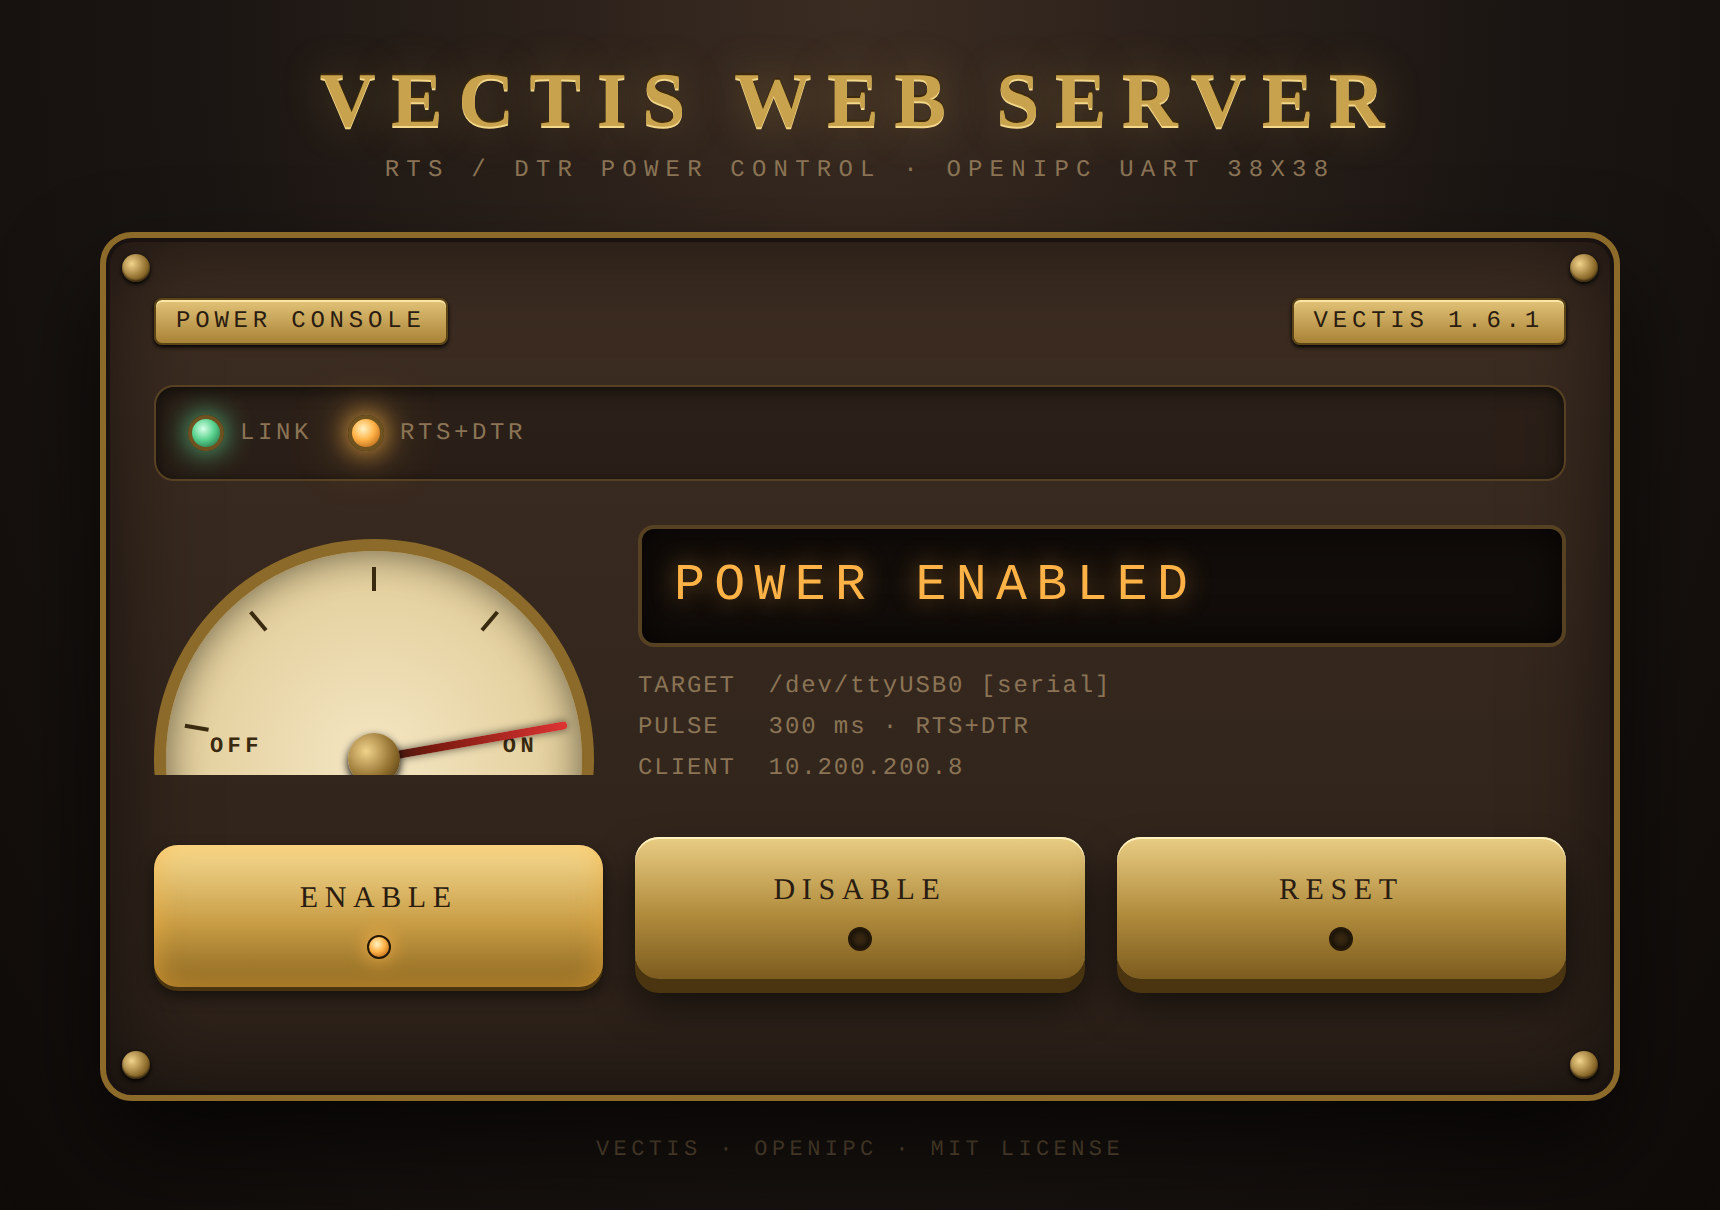
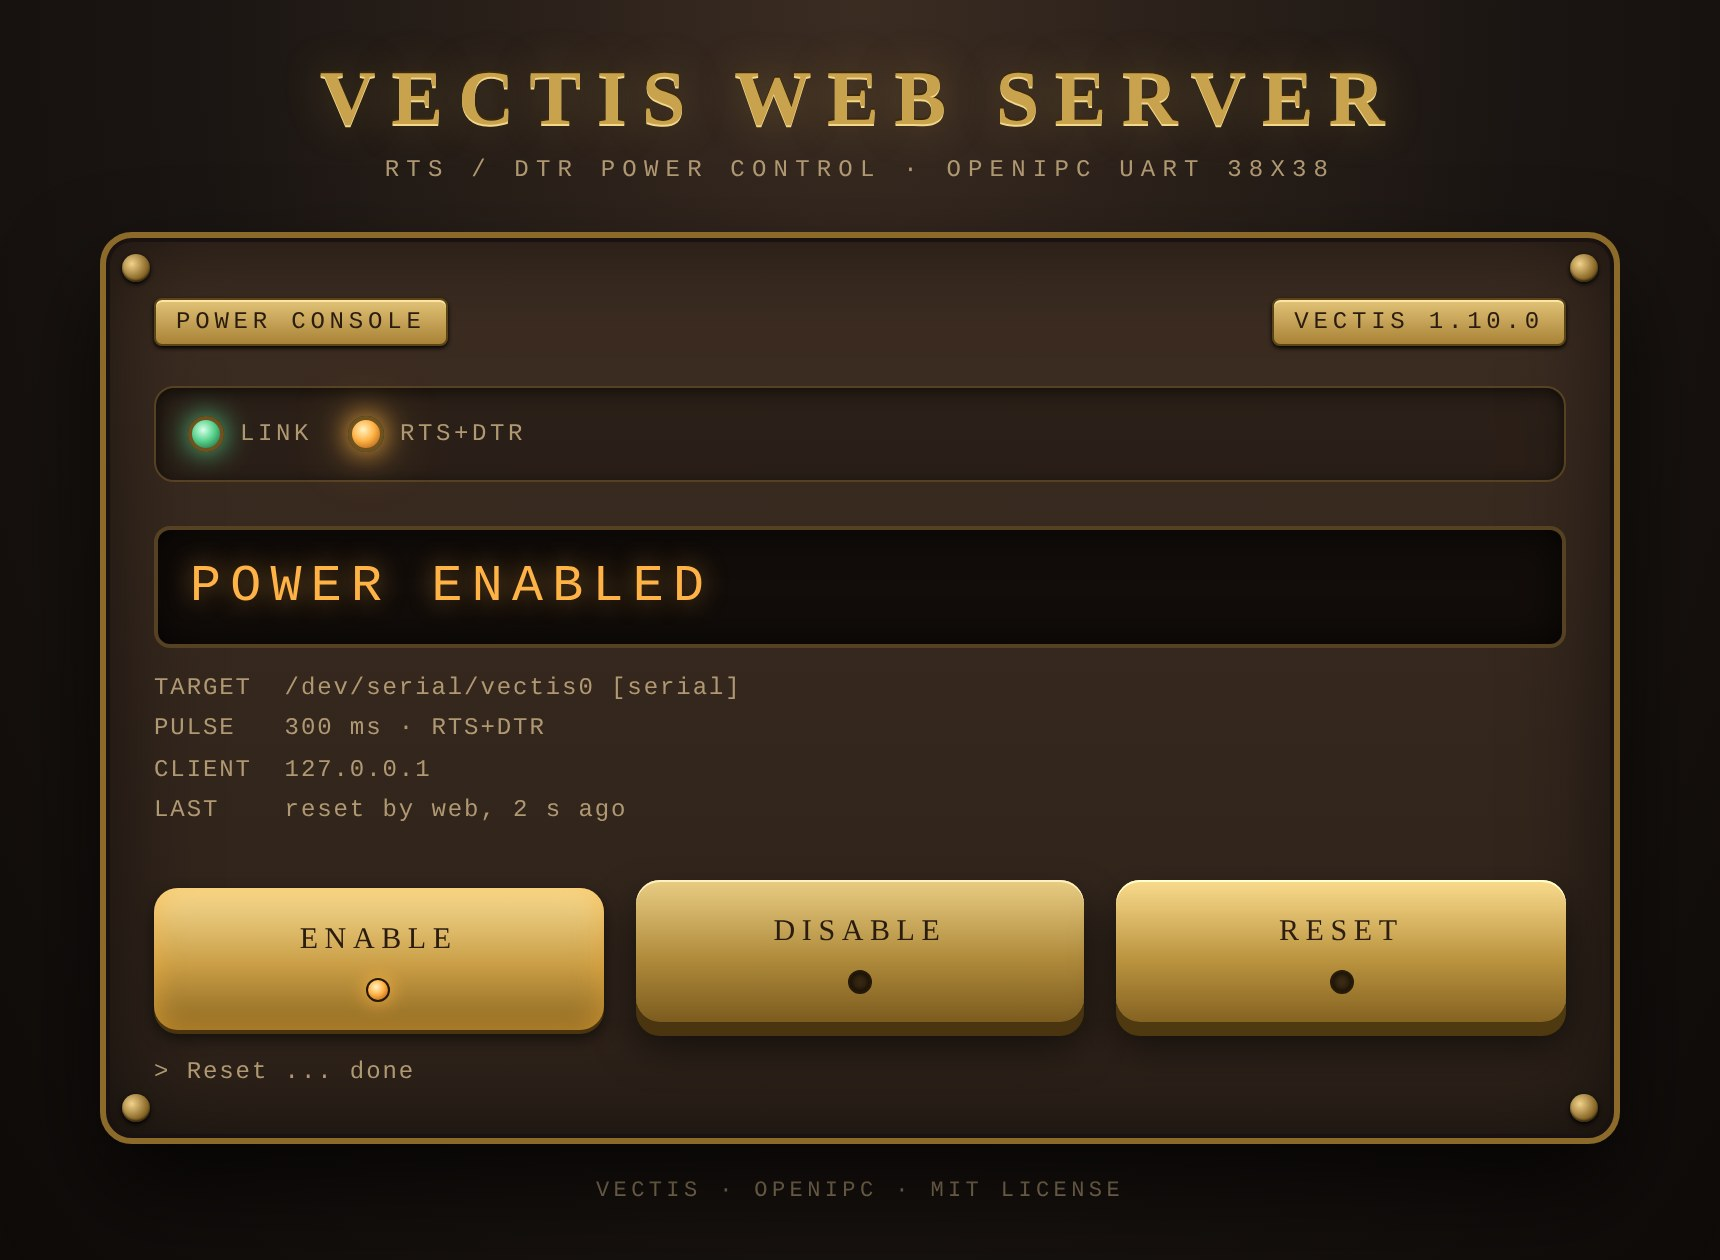
Web console: remove the gauge, state in the tab title, last-event line (#78)
Closes #76
Closes #77

Web console (`-w`) only; the JSON API does not change. Version 1.10.0.

## Before and after

Both builds were driven in headless Chrome against a pty in place of the
UART.

| State | 1.9.1 tab title | 1.10.0 tab title | 1.10.0 `LAST` line |
|---|---|---|---|
| Power on | `Vectis Web Server` | `Power enabled · Vectis` | `power on
by link, 2 s ago` |
| Power off | `Vectis Web Server` | `Power disabled · Vectis` | `power
off by web, 0 s ago` |
| Reset running | `Vectis Web Server` | `Resetting · Vectis` | `reset by
web, 0 s ago` |
| Reset by another browser | `Vectis Web Server` | `Power enabled ·
Vectis` | `reset by web, 1 s ago` |
| `Ctrl+P` from a raw `-l` client | `Vectis Web Server` | `Power enabled
· Vectis` | `reset by tcp, 1 s ago` |
| Link offline | `Vectis Web Server` | `Link offline · Vectis` | hidden
|

| Check | 1.9.1 | 1.10.0 |
|---|---|---|
| Gauge elements in the page | present | none |
| State display width in the 706 px row | 464 px | 706 px |
| Reset button filter while the pulse runs | `grayscale(0.7)
brightness(0.6)` | `none` |
| JS errors, all states | none | none |
| Horizontal overflow at 390 px | none | none |

The 15-second log line still names the source of a remote event
(`another browser`, `tcp`).

Colours: `--dim` `#8a7455` → `#b09873`, footer `#5e4d36` → `#958061`,
the values and ratios from #77.

## Notes

- The new `screenshots/web-power-console.jpg` was taken with a pty in
[…]

diff --git a/vectis.c b/vectis.c
@@ -105,8 +105,8 @@
 #define CPC_STOP_1   1
 #define CPC_STOP_2   2
 
-#define PROGRAM_VERSION      "1.9.1"
-#define PROGRAM_RELEASE_DATE "2026-11-04"
+#define PROGRAM_VERSION      "1.10.0"
+#define PROGRAM_RELEASE_DATE "2026-11-08"
 
 #define RECONNECT_DELAY_S 5
 
@@ -1087,7 +1087,7 @@ static const char web_page[] =
     "<meta name='viewport' content='width=device-width,initial-scale=1'>\n"
     "<title>Vectis Web Server</title>\n"
     "<style>\n"
-    ":root{--panel:#2c2119;--panel2:#3d2d22;--brass:#c9a24d;--brass2:#8c6a2a;--amber:#ffb347;--ember:#ff6a1a;--ink:#e8d9b8;--dim:#8a7455;--red:#c8452c;--green:#5ad38f}\n"
+    ":root{--panel:#2c2119;--panel2:#3d2d22;--brass:#c9a24d;--brass2:#8c6a2a;--amber:#ffb347;--ember:#ff6a1a;--ink:#e8d9b8;--dim:#b09873;--red:#c8452c;--green:#5ad38f}\n"
     "*{box-sizing:border-box}\n"
     "body{margin:0;min-height:100vh;background:radial-gradient(ellipse at 50% 0,#3b2c22 0,#1a1512 55%,#0f0b09 100%);color:var(--ink);font-family:Georgia,'Times New Roman',serif;display:flex;flex-direction:column;align-items:center;padding:28px 12px}\n"
     "h1{font-size:clamp(22px,4.5vw,40px);letter-spacing:.2em;text-transform:uppercase;margin:0 0 6px;text-align:center;color:var(--brass);text-shadow:0 1px 0 #f3d78a,0 -1px 0 #3d2a0c,0 0 22px rgba(201,162,77,.35)}\n"
@@ -1104,16 +1104,8 @@ static const char web_page[] =
     ".bulb.ok{background:radial-gradient(circle at 40% 35%,#d8ffe8,var(--green) 45%,#155b34);box-shadow:0 0 14px var(--green)}\n"
     ".bulb.bad{background:radial-gradient(circle at 40% 35%,#ffd0c4,var(--red) 45%,#5a1a0e);box-shadow:0 0 14px var(--red);animation:blink 1.2s infinite}\n"
     "@keyframes blink{50%{box-shadow:0 0 2px var(--red)}}\n"
-    ".mid{display:flex;gap:22px;align-items:center;justify-content:space-between;flex-wrap:wrap;margin-top:22px}\n"
-    ".gauge{position:relative;width:220px;height:118px;overflow:hidden;flex:none;margin:0 auto}\n"
-    ".dial{position:absolute;left:0;top:0;width:220px;height:220px;border-radius:50%;border:6px solid var(--brass2);background:radial-gradient(circle at 50% 50%,#f4e6c3 0,#e6d3a3 55%,#c9b27a 100%);box-shadow:inset 0 0 18px rgba(0,0,0,.5)}\n"
-    ".tick{position:absolute;left:50%;top:110px;width:2px;height:104px;margin-left:-1px;margin-top:-104px;transform-origin:50% 100%}\n"
-    ".tick:after{content:'';position:absolute;top:8px;left:0;width:2px;height:12px;background:#3a2a10}\n"
-    ".needle{position:absolute;left:50%;top:110px;width:4px;height:98px;margin-left:-2px;margin-top:-98px;background:linear-gradient(180deg,#d33 0,#7a1a10 70%,#2a1c10);transform-origin:50% 100%;transform:rotate(-88deg);transition:transform 1.1s cubic-bezier(.3,1.6,.4,1);border-radius:2px;box-shadow:0 0 4px rgba(0,0,0,.6)}\n"
-    ".hub{position:absolute;left:50%;top:110px;width:26px;height:26px;margin:-13px 0 0 -13px;border-radius:50%;background:radial-gradient(circle at 35% 35%,#f1d38b,#8c6a2a 60%,#3a2a10);box-shadow:0 2px 4px #000}\n"
-    ".lbl{position:absolute;bottom:8px;font-family:'Courier New',monospace;font-size:11px;letter-spacing:.2em;color:#3a2a10;font-weight:bold}\n"
-    ".lbl.l{left:28px}.lbl.r{right:28px}\n"
-    ".readout{flex:1;min-width:230px;font-family:'Courier New',monospace}\n"
+    ".mid{margin-top:22px}\n"
+    ".readout{font-family:'Courier New',monospace}\n"
     ".state{font-size:clamp(18px,3vw,26px);letter-spacing:.18em;text-transform:uppercase;color:var(--amber);text-shadow:0 0 12px rgba(255,179,71,.5);padding:14px 16px;border:2px solid #574123;border-radius:8px;background:#120d0a;box-shadow:inset 0 0 20px rgba(0,0,0,.8);transition:color .3s}\n"
     ".state.off{color:var(--dim);text-shadow:none}\n"
     ".state.bad{color:var(--red);text-shadow:0 0 12px rgba(200,69,44,.5)}\n"
@@ -1128,11 +1120,12 @@ static const char web_page[] =
     ".btn.reset.engaged .ind{background:radial-gradient(circle at 40% 35%,#ffe1d0,var(--ember) 45%,#7a2a05);box-shadow:0 0 10px var(--ember);animation:flick .35s infinite}\n"
     "@keyframes flick{50%{opacity:.25}}\n"
     ".btn:disabled{cursor:not-allowed;filter:grayscale(.7) brightness(.6)}\n"
+    ".btn:disabled.engaged{filter:none}\n"
     ".btn .gear{position:absolute;right:10px;top:8px;font-size:16px;line-height:1;opacity:0;transition:opacity .2s}\n"
     ".btn.reset.engaged .gear{opacity:1;animation:spin 1s linear infinite}\n"
     "@keyframes spin{to{transform:rotate(360deg)}}\n"
     ".log{font-family:'Courier New',monospace;font-size:12px;color:var(--dim);margin-top:18px;min-height:16px;letter-spacing:.08em}\n"
-    ".foot{margin-top:18px;font-family:'Courier New',monospace;font-size:11px;color:#5e4d36;letter-spacing:.2em;text-transform:uppercase;text-align:center}\n"
+    ".foot{margin-top:18px;font-family:'Courier New',monospace;font-size:11px;color:#958061;letter-spacing:.2em;text-transform:uppercase;text-align:center}\n"
     "</style>\n"
     "</head>\n"
     "<body>\n"
@@ -1146,10 +1139,6 @@ static const char web_page[] =
     "<div class='lamp'><span class='bulb' id='l-lines'></span>RTS+DTR</div>\n"
     "</div>\n"
     "<div class='mid'>\n"
-    "<div class='gauge'><div class='dial'></div>\n"
-    "<div class='tick' style='transform:rotate(-80deg)'></div><div class='tick' style='transform:rotate(-40deg)'></div><div class='tick'></div><div class='tick' style='transform:rotate(40deg)'></div><div class='tick' style='transform:rotate(80deg)'></div>\n"
-    "<span class='lbl l'>OFF</span><span class='lbl r'>ON</span>\n"
-    "<div class='needle' id='needle'></div><div class='hub'></div></div>\n"
     "<div class='readout'><div class='state off' id='state'>Stand by</div><div class='meta' id='meta'>Reading the console&hellip;</div></div>\n"
     "</div>\n"
     "<div class='btns'>\n"
@@ -1164,15 +1153,17 @@ static const char web_page[] =
     "var busy=false,lastSeq=-1;\n"
     "function $(i){return document.getElementById(i)}\n"
     "function bulb(id,c){$(id).className='bulb'+(c?' '+c:'')}\n"
+    "function setState(t,c){var st=$('state');st.textContent=t;st.className='state'+(c?' '+c:'');document.title=t+' \\u00b7 Vectis'}\n"
     "function esc(t){return String(t).replace(/[&<>]/g,function(c){return {'&':'&amp;','<':'&lt;','>':'&gt;'}[c]})}\n"
+    "function ago(ms){var s=Math.floor(ms/1000);return s<60?s+' s':s<3600?Math.floor(s/60)+' min':Math.floor(s/3600)+' h'}\n"
+    "function last(e){return esc((e.kind==='reset'?'reset':'power '+e.kind)+' by '+e.source+', '+ago(e.ago_ms)+' ago')}\n"
     "function render(s){\n"
     " var online=s.link==='online',on=s.power==='on';\n"
     " bulb('l-link',online?'ok':'bad');$('t-link').textContent=online?'Link':'No link';\n"
     " bulb('l-lines',online&&(s.rts<0||s.dtr<0?on:s.rts===1&&s.dtr===1)?'on':'');\n"
-    " var st=$('state');st.textContent=online?(on?'Power enabled':'Power disabled'):'Link offline';st.className='state'+(online?(on?'':' off'):' bad');\n"
-    " $('meta').innerHTML='TARGET&nbsp; '+esc(s.target)+' ['+esc(s.mode)+']<br>PULSE&nbsp;&nbsp; '+esc(s.reset_ms)+' ms &middot; RTS+DTR'+(s.tcp_client?'<br>CLIENT&nbsp; '+esc(s.tcp_client):'');\n"
+    " setState(online?(on?'Power enabled':'Power disabled'):'Link offline',online?(on?'':'off'):'bad');\n"
+    " $('meta').innerHTML='TARGET&nbsp; '+esc(s.target)+' ['+esc(s.mode)+']<br>PULSE&nbsp;&nbsp; '+esc(s.reset_ms)+' ms &middot; RTS+DTR'+(s.tcp_client?'<br>CLIENT&nbsp; '+esc(s.tcp_client):'')+(online&&s.event?'<br>LAST&nbsp;&nbsp;&nbsp; '+last(s.event):'');\n"
     " $('ver').textContent='vectis '+s.version;\n"
-    " $('needle').style.transform='rotate('+(online?(on?80:-80):-88)+'deg)';\n"
     " $('b-on').classList.toggle('engaged',online&&on);$('b-off').classList.toggle('engaged',online&&!on);\n"
     " var d=!online||busy;$('b-on').disabled=d;$('b-off').disabled=d;$('b-reset').disabled=d;\n"
     " remote(s.event);\n"
@@ -1188,8 +1179,7 @@ static const char web_page[] =
     " if(e.kind==='reset'){flashReset()}\n"
     "}\n"
     "function flashReset(){\n"
-    " var b=$('b-reset');b.classList.add('engaged');$('needle').style.transform='rotate(-80deg)';\n"
-    " $('state').textContent='Resetting';$('state').className='state';\n"
+    " var b=$('b-reset');b.classList.add('engaged');setState('Resetting');\n"
     " setTimeout(function(){b.classList.remove('engaged');if(!busy)poll()},900);\n"
     "}\n"
     "function offline(){render({link:'offline',power:'off',rts:-1,dtr:-1,target:'?',mode:'?',reset_ms:'?',version:'?'})}\n"
@@ -1201,7 +1191,7 @@ static const char web_page[] =
     " var label=id==='b-on'?'Enable':id==='b-off'?'Disable':'Reset';\n"
     " btn.classList.add('pressed');\n"
     " ['b-on','b-off','b-reset'].forEach(function(i){$(i).disabled=true});\n"
-    " if(id==='b-reset'){btn.classList.add('engaged');$('needle').style.transform='rotate(-80deg)';$('state').textContent='Resetting';$('state').className='state'}\n"
+    " if(id==='b-reset'){btn.classList.add('engaged');setState('Resetting')}\n"
     " $('log').textContent='> '+label+' ... engaging';\n"
     " var t0=Date.now(),hold=function(f){setTimeout(f,id==='b-reset'?Math.max(0,900-(Date.now()-t0)):0)};\n"
     " fetch(path,{method:'POST'}).then(function(r){return r.json().then(function(j){return {ok:r.ok,j:j}})}).then(function(x){hold(function(){\n"

diff --git a/tests/test_vectis.py b/tests/test_vectis.py
@@ -19,6 +19,7 @@
 
 import json
 import os
+import re
 import pty
 import select
 import signal
@@ -199,6 +200,18 @@ def test_server(tmp):
         check(wait_listen(lport) and wait_listen(wport), "listeners come up")
         st = wait_status(wport, "link", "online")
         check(st.get("link") == "online" and st.get("mode") == "serial", "/status: online, serial")
+
+        # The page: every element its script touches exists, or render() throws
+        # and the page stops updating.
+        with urllib.request.urlopen("http://127.0.0.1:%d/" % wport, timeout=5) as r:
+            page = r.read().decode()
+        ids = set(re.findall(r"(?:\$|bulb)\('([\w-]+)'", page))
+        missing = sorted(i for i in ids if "id='%s'" % i not in page)
+        check(ids and not missing, "web page: script ids exist (missing %r)" % missing)
+        check("needle" not in page and "gauge" not in page, "web page: no arrow gauge")
+        check("document.title=" in page, "web page: the tab title follows the state")
+        check("LAST" in page and ".btn:disabled.engaged{filter:none}" in page,
+              "web page: LAST line, the engaged button stays lit")
 
         # Raw mode: LF and CRLF become CR on the way to the device.
         c = socket.create_connection(("127.0.0.1", lport))

diff --git a/README.zh-CN.md b/README.zh-CN.md
@@ -618,10 +618,10 @@ nc 192.168.1.20 2021                        # 原始模式，逐行发送
 ## Web 电源控制台（`-w`）
 
 <p align="center">
-  <img src="screenshots/web-power-console.jpg" alt="vectis Web 电源控制台：link 与 RTS+DTR 指示灯、电源仪表、Enable / Disable / Reset 按钮" width="720">
+  <img src="screenshots/web-power-console.jpg" alt="vectis Web 电源控制台：link 与 RTS+DTR 指示灯、状态显示屏、Enable / Disable / Reset 按钮" width="720">
 </p>
 
-<p align="center"><sub>vectis 1.6.1 运行在 OpenIPC Dev Board 上，以 <code>-w 8080 -l 2021 -t 300</code> 提供其 <code>/dev/ttyUSB0</code>；另一个 <code>vectis</code> 已连接到 <code>-l</code> 端口。</sub></p>
+<p align="center"><sub>vectis 1.10.0，参数为 <code>-w 8080 -l 2021 -t 300</code>，用伪终端代替 UART；另一个 <code>vectis</code> 已连接到 <code>-l</code> 端口。</sub></p>
 
 `-w PORT`（或 `-w ADDR:PORT`，仅在一个 IPv4 地址上监听）会在终端会话
 之外启动一个内置 Web 服务器。它只提供一个页面，
@@ -634,8 +634,9 @@ nc 192.168.1.20 2021                        # 原始模式，逐行发送
 | `Disable` | 释放 RTS+DTR（设备断电）                            | 断电期间点亮                   |
 | `Reset`   | 持续 `-t` 毫秒的 RTS+DTR 脉冲，与 `Ctrl+P` 完全相同 | 脉冲期间点亮，并显示旋转的齿轮 |
 
-按下按钮时会播放动画，指示灯（链路、RTS+DTR）和仪表
-指针跟随设备状态变化，页面每两秒轮询一次该状态，
+按下按钮时会播放动画，指示灯（链路、RTS+DTR）和状态显示屏
+跟随设备状态变化，浏览器标签页标题显示相同的状态
+（`Power enabled · Vectis`），页面每两秒轮询一次该状态，
 因此来自键盘的 `Ctrl+P` 或在另一个浏览器中的按键
 也会显示出来。这些按钮使用与终端会话完全相同的传输方式：
 `-u` 模式下对本地串口执行 `ioctl`，`-h`/`-p` 模式下通过 RFC 2217
@@ -696,8 +697,9 @@ Telnet 客户端的 `SET-CONTROL`）或 `link`（打开串口时拉高），`seq
 随每个事件递增，`ago_ms` 表示事件发生在多久之前。
 页面借此显示在别处触发的复位：来自键盘或来自
 `vectis -h HOST -p PORT` 客户端的 `Ctrl+P` 会使
-Reset 按钮点亮、指针摆动，日志行中会注明
-来源。裸 `telnet` 会把 `Ctrl+P` 当作数据发送，因此这种情况下
+Reset 按钮点亮、显示屏显示 `Resetting`，日志行中会注明
+来源。最近一次事件还会保留在页面的 `LAST` 行中，例如
+`reset by web, 12 s ago`；尚无事件或链路离线时不显示该行。裸 `telnet` 会把 `Ctrl+P` 当作数据发送，因此这种情况下
 设备和页面上都不会有任何反应。命令 URL 对
 所有客户端（包括浏览器）都以 JSON 应答，因此从
 书签打开的 `/power/reset` 会以文本形式显示操作后的状态。页面只在

diff --git a/README.md b/README.md
@@ -638,10 +638,10 @@ makes the process reopen the link automatically; it requires `-u`.
 ## Web power console (`-w`)
 
 <p align="center">
-  <img src="screenshots/web-power-console.jpg" alt="Vectis web power console: link and RTS+DTR lamps, power gauge, Enable / Disable / Reset buttons" width="720">
+  <img src="screenshots/web-power-console.jpg" alt="Vectis web power console: link and RTS+DTR lamps, state display, Enable / Disable / Reset buttons" width="720">
 </p>
 
-<p align="center"><sub>vectis 1.6.1 running on an OpenIPC Dev Board, serving its <code>/dev/ttyUSB0</code> with <code>-w 8080 -l 2021 -t 300</code>; a second <code>vectis</code> is connected to the <code>-l</code> port.</sub></p>
+<p align="center"><sub>vectis 1.10.0 with <code>-w 8080 -l 2021 -t 300</code>, a pseudo-terminal standing in for the UART; a second <code>vectis</code> is connected to the <code>-l</code> port.</sub></p>
 
 `-w PORT` (or `-w ADDR:PORT` to listen on one IPv4 address only) starts a
 built-in web server alongside the terminal session. It serves a single
@@ -654,8 +654,9 @@ page, styled as a brass-and-rivets control panel with the heading
 | `Disable` | deassert RTS+DTR (device unpowered)                            | lit while power is off                          |
 | `Reset`   | RTS+DTR pulse of `-t` milliseconds, exactly what `Ctrl+P` does | lit, with a spinning gear, while the pulse runs |
 
-A press animates the button, the lamps (link, RTS+DTR) and a gauge
-needle follow the device state, and the page polls that state every
+A press animates the button, the lamps (link, RTS+DTR) and the state
+display follow the device state, the browser tab title shows the same
+state (`Power enabled · Vectis`), and the page polls that state every
 two seconds, so a `Ctrl+P` from the keyboard or a press in another
 browser shows up too. The buttons use the very same transport as the
 terminal session: `ioctl` on the local port in `-u` mode, `SET-CONTROL`
@@ -716,8 +717,10 @@ Telnet client) or `link` (asserted when the port was opened), `seq`
 grows with every event and `ago_ms` says how long ago it happened. The
 page uses it to show a reset that was triggered elsewhere: a `Ctrl+P`
 from the keyboard or from a `vectis -h HOST -p PORT` client makes the
-Reset button light up and the needle swing, and the log line names the
-source. A bare `telnet` sends `Ctrl+P` as data, so nothing happens on
+Reset button light up and the display show `Resetting`, and the log
+line names the source. The last event also stays on the page in a
+`LAST` line such as `reset by web, 12 s ago`, which is hidden while
+there is no event or the link is offline. A bare `telnet` sends `Ctrl+P` as data, so nothing happens on
 the device or on the page in that case. The command URLs answer JSON to
 every client, a browser included, so `/power/reset` opened from a
 bookmark shows the resulting state as text. The page is served only for

diff --git a/CHANGELOG.md b/CHANGELOG.md
@@ -6,6 +6,20 @@ rebuilt from every push to `master`; this file is the change history. Versions
 up to 1.3.2 are those of the original UART bridge, now `vectis-bootrom.c`; from 1.6.0 on,
 `vectis` is the former `vectis-cli`.
 
+## 1.10.0 — 2026-11-08
+
+The web console (`-w`) loses the arrow gauge and shows more of the state (#76, #77).
+
+- The arrow gauge is gone: it had only two positions, and the lamp, the state display and
+  the lit button already show the power state. The state display takes the full width.
+- The browser tab title follows the state: `Power enabled · Vectis`, `Power disabled · Vectis`,
+  `Resetting · Vectis`, `Link offline · Vectis`.
+- A permanent `LAST` line shows the last power event from any side, such as
+  `reset by web, 12 s ago`. It is hidden while there is no event or the link is offline.
+- Labels and the footer reach the WCAG AA contrast of 4.5:1.
+- The pressed button no longer greys out while it is disabled, so the Reset glow and gear
+  stay visible during the pulse.
+
 ## 1.9.1 — 2026-11-04
 
 `-u` no longer reconnects to another adapter (#74), and a failed publish no longer takes
